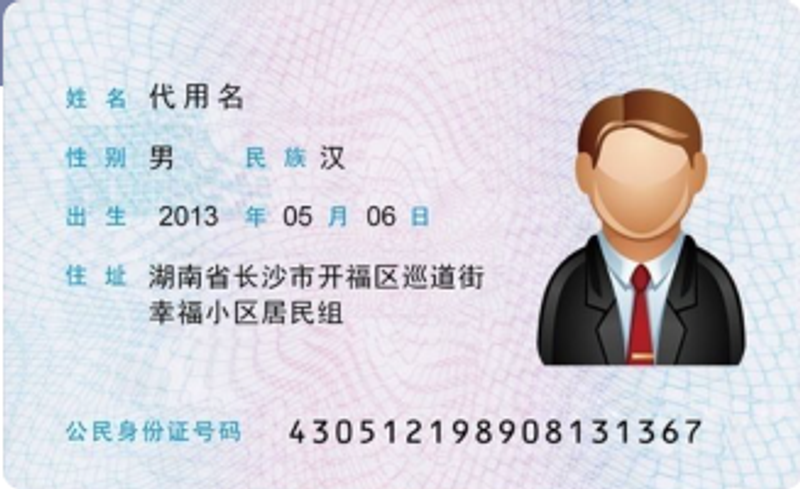
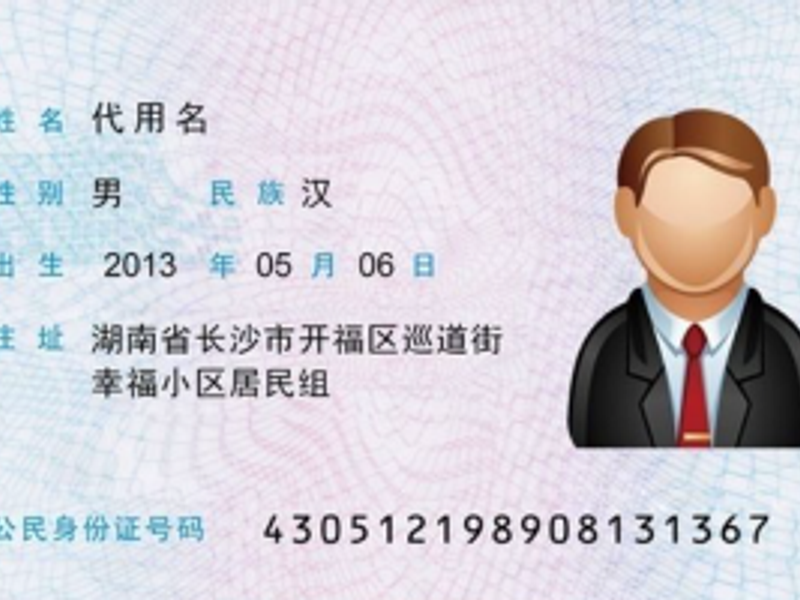
提交代码缩放接口测试

diff --git a/picture-resize/test.js b/picture-resize/test.js
@@ -1,2 +1,2 @@
 const sharp = require('sharp');
-sharp('back.png').resize(800).toFile('out.png');
+sharp('back.png').resize(800, 600).toFile('out.png');
